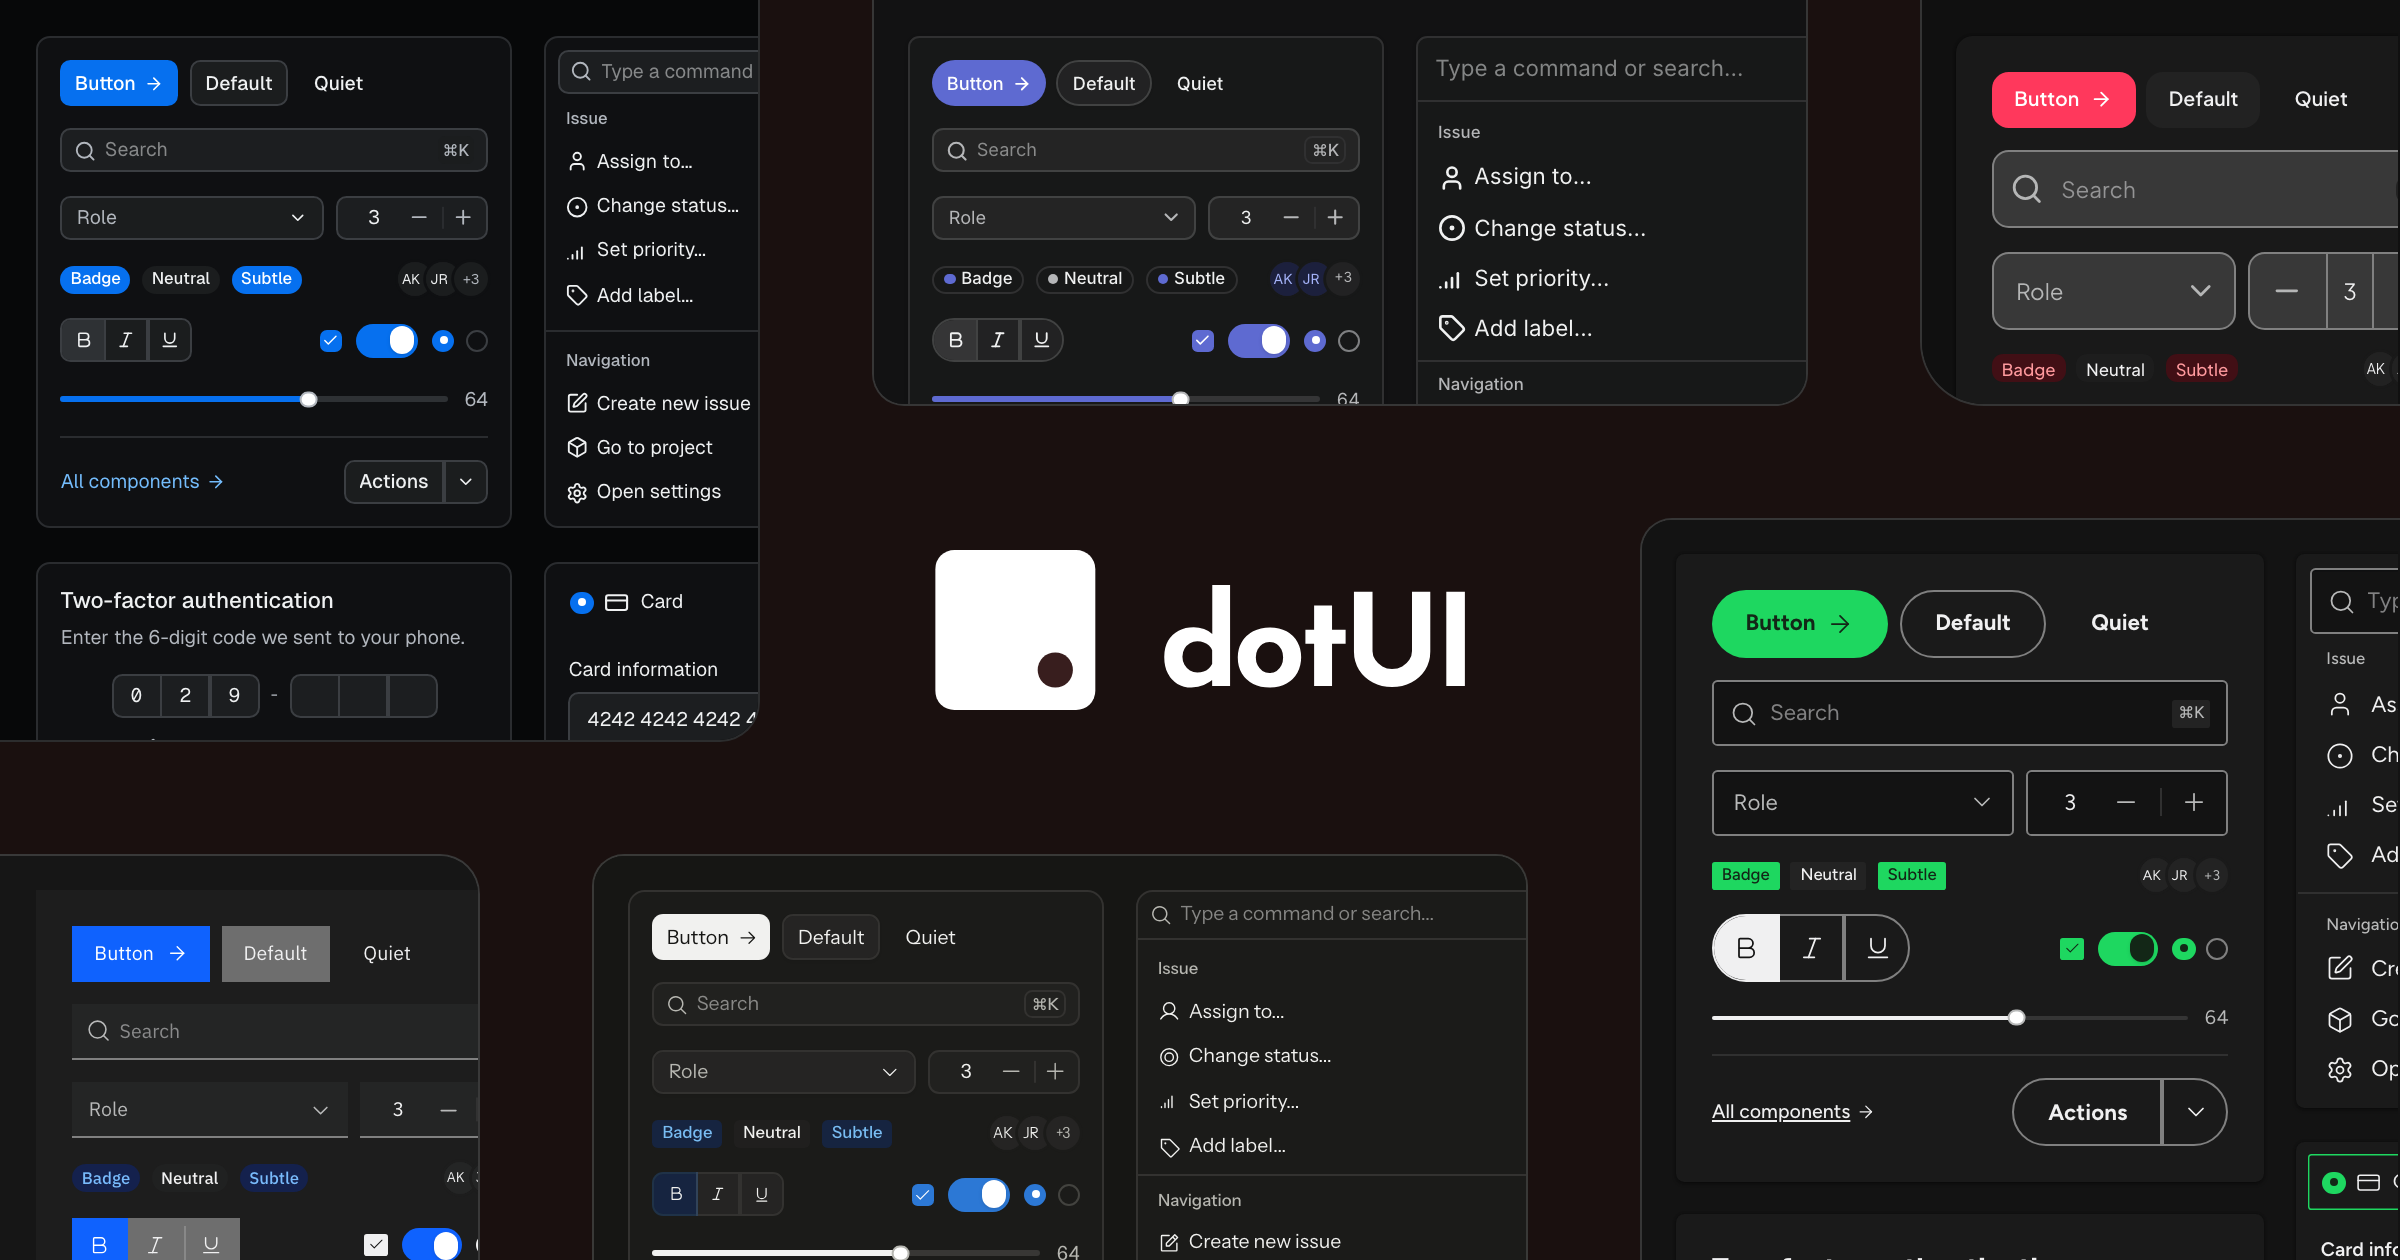
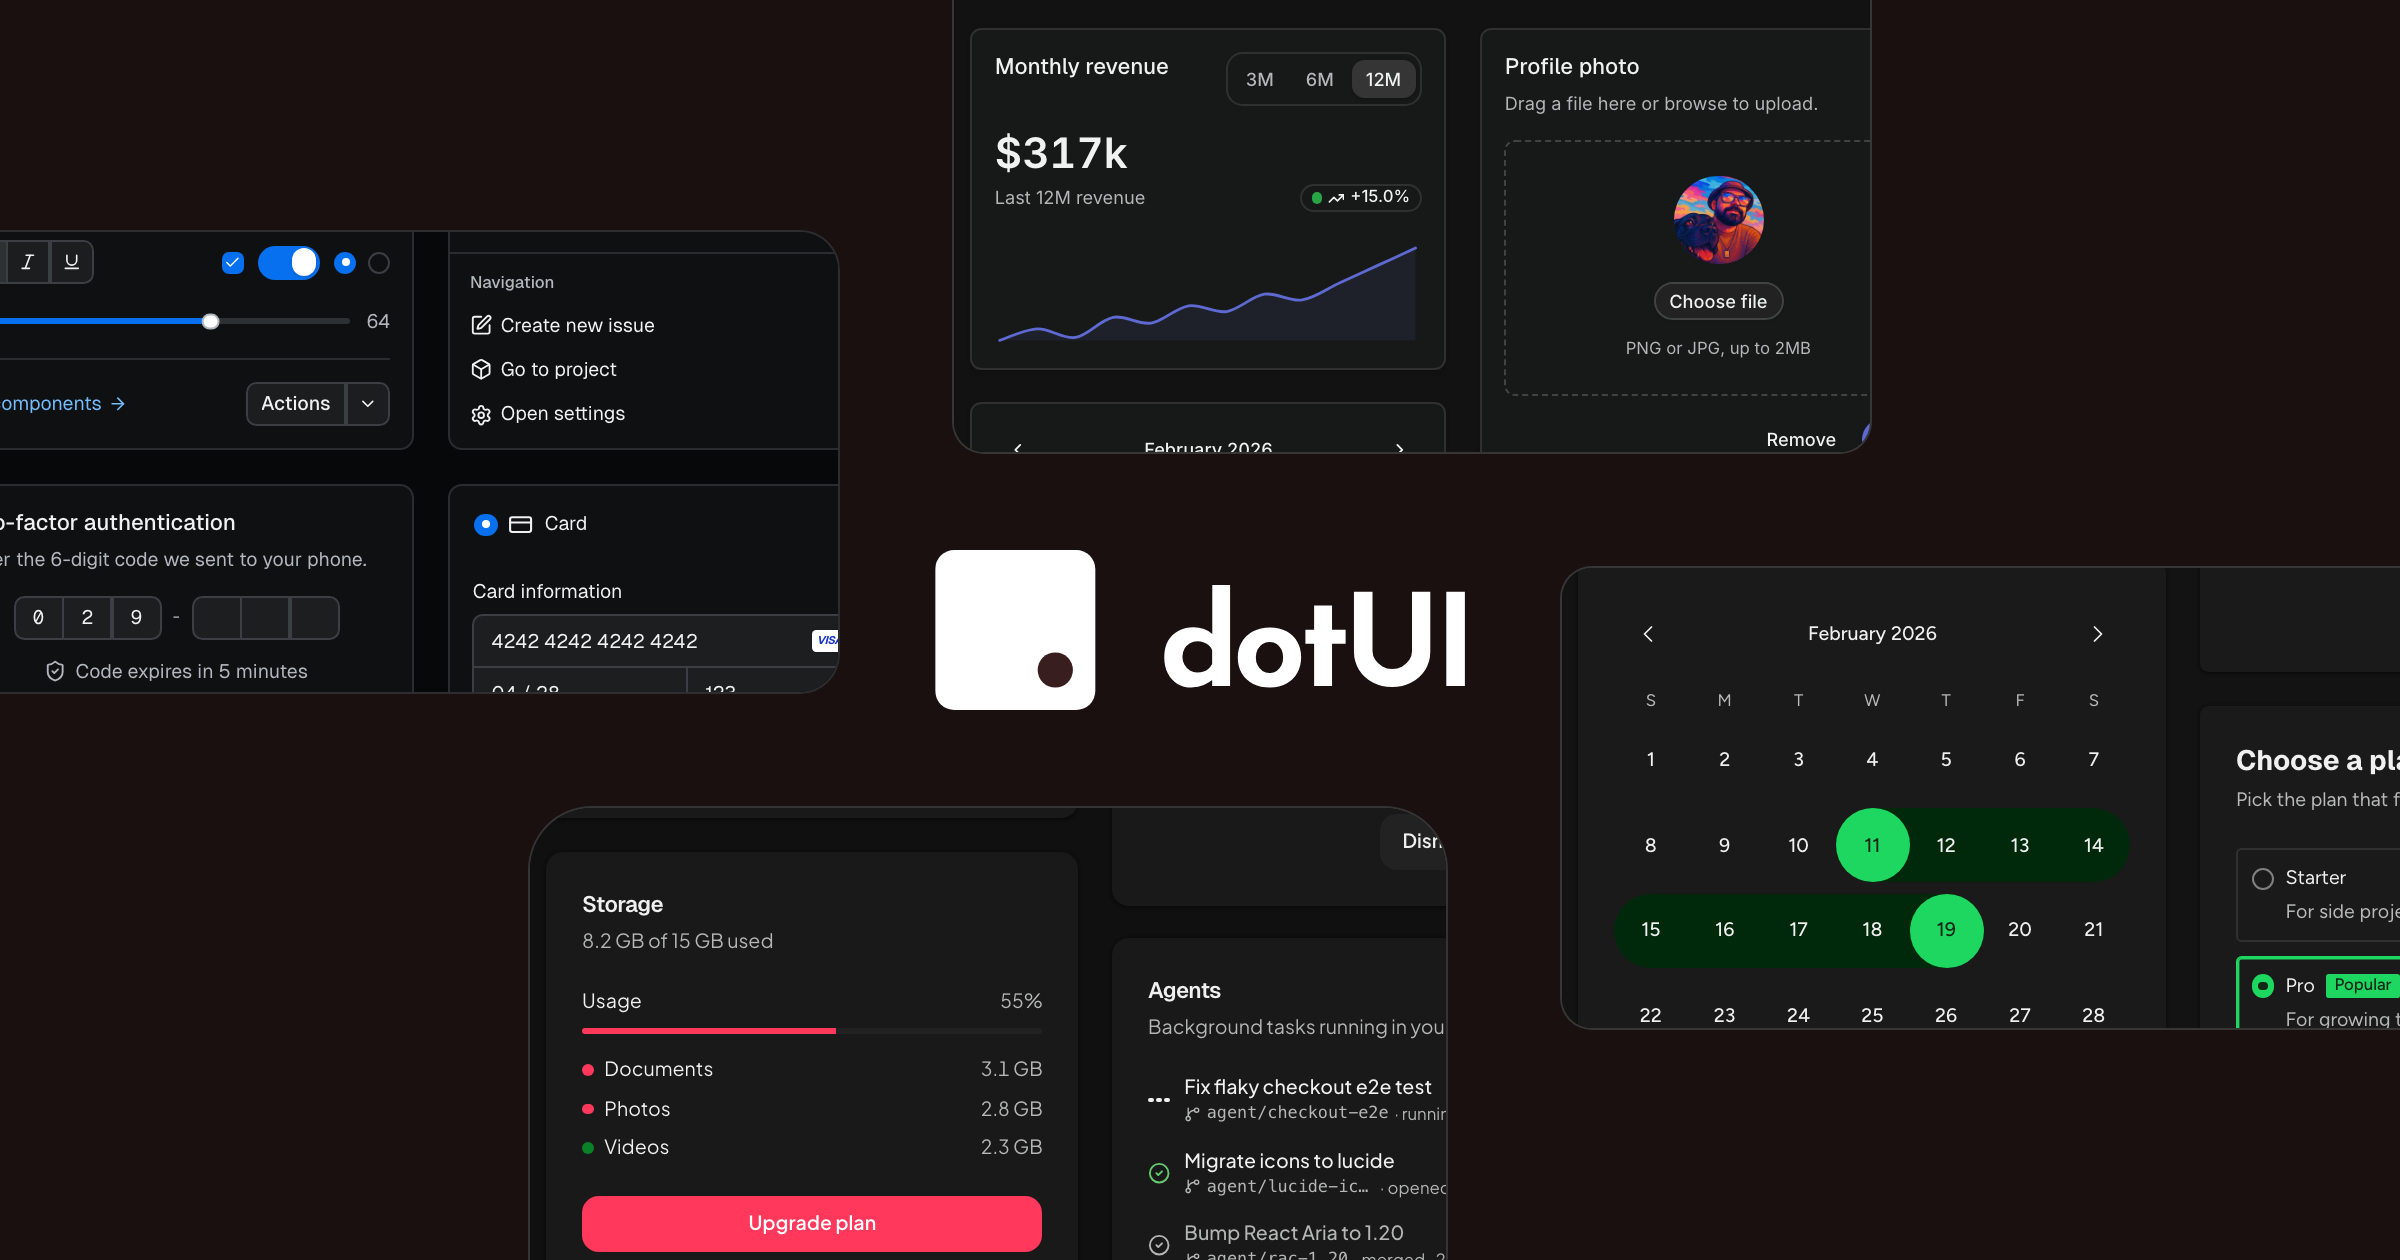
feat(brand): four equal containers with cropped cards on the cover

diff --git a/www/src/modules/marketing/cover.tsx b/www/src/modules/marketing/cover.tsx
@@ -6,80 +6,67 @@ import { DesignSystemProvider } from "@/lib/styles"
 import { CardsCanvas } from "@/components/showcase/cards-grid"
 import { resolvePreset } from "@/modules/presets"
 
-type Side = "top" | "right" | "bottom" | "left"
-
-// The clear area around the logo is 2 × HALF_W by 2 × HALF_H; containers run
-// BLEED past the canvas edge.
-const BLEED = -40
-const HALF_W = 220
-const HALF_H = 112
+// Four equal windows pinwheel around the logo's 2 × HALF_W by 2 × HALF_H clear
+// area, GUTTER apart; each reaches one edge of the 1280×640 canvas and runs
+// BLEED past it.
+const HALF_W = 180
+const HALF_H = 88
 const GUTTER = 56
-// Where the top and bottom rows split in two, from the center.
-const SPLIT = 360
+const WIDTH = 640 - HALF_W
+const HEIGHT = 320 - HALF_H
+const BLEED = 40
+const ZOOM = 0.7
 
 const fromCenter = (px: number) => `calc(50% + ${px}px)`
 
-const SLOTS: { preset: string; inset: Record<Side, number | string> }[] = [
+const SLOTS: {
+  preset: string
+  /** The window's top-left, from the canvas center. */
+  x: number
+  y: number
+  bleed: "left" | "top" | "right" | "bottom"
+  /** Where the window sits in the cards canvas, in canvas pixels. */
+  view: [number, number]
+}[] = [
   {
     preset: "origin",
-    inset: {
-      top: BLEED,
-      left: BLEED,
-      right: fromCenter(HALF_W),
-      bottom: fromCenter(GUTTER - HALF_H),
-    },
+    x: -HALF_W - WIDTH,
+    y: HALF_H - GUTTER - HEIGHT,
+    bleed: "left",
+    view: [12, 220],
   },
   {
     preset: "linear",
-    inset: {
-      top: BLEED,
-      left: fromCenter(GUTTER - HALF_W),
-      right: fromCenter(GUTTER - SPLIT),
-      bottom: fromCenter(HALF_H),
-    },
-  },
-  {
-    preset: "airbnb",
-    inset: {
-      top: BLEED,
-      right: BLEED,
-      left: fromCenter(SPLIT),
-      bottom: fromCenter(HALF_H),
-    },
+    x: GUTTER - HALF_W,
+    y: -HALF_H - HEIGHT,
+    bleed: "top",
+    view: [740, 130],
   },
   {
     preset: "spotify",
-    inset: {
-      bottom: BLEED,
-      right: BLEED,
-      left: fromCenter(HALF_W),
-      top: fromCenter(GUTTER - HALF_H),
-    },
+    x: HALF_W,
+    y: GUTTER - HALF_H,
+    bleed: "right",
+    view: [900, 470],
   },
   {
-    preset: "claude",
-    inset: {
-      bottom: BLEED,
-      left: fromCenter(GUTTER - SPLIT),
-      right: fromCenter(GUTTER - HALF_W),
-      top: fromCenter(HALF_H),
-    },
-  },
-  {
-    preset: "carbon",
-    inset: {
-      bottom: BLEED,
-      left: BLEED,
-      right: fromCenter(SPLIT),
-      top: fromCenter(HALF_H),
-    },
+    preset: "airbnb",
+    x: HALF_W - GUTTER - WIDTH,
+    y: HALF_H,
+    bleed: "bottom",
+    view: [416, 1000],
   },
 ]
 
-function PresetContainer({ preset, inset }: (typeof SLOTS)[number]) {
+function PresetContainer({
+  preset,
+  x,
+  y,
+  bleed,
+  view,
+}: (typeof SLOTS)[number]) {
   const designSystem = resolvePreset(preset)
-  // Bleeding sides pad back to the visible edge; the canvas pads itself.
-  const pad = (side: Side) => (inset[side] === BLEED ? -BLEED : 0)
+  const horizontal = bleed === "left" || bleed === "right"
   return (
     <DesignSystemProvider
       scoped
@@ -92,15 +79,16 @@ function PresetContainer({ preset, inset }: (typeof SLOTS)[number]) {
     >
       <div
         style={{
-          ...inset,
-          paddingTop: pad("top"),
-          paddingRight: pad("right"),
-          paddingBottom: pad("bottom"),
-          paddingLeft: pad("left"),
+          left: fromCenter(bleed === "left" ? x - BLEED : x),
+          top: fromCenter(bleed === "top" ? y - BLEED : y),
+          width: horizontal ? WIDTH + BLEED : WIDTH,
+          height: horizontal ? HEIGHT : HEIGHT + BLEED,
+          paddingLeft: bleed === "left" ? BLEED : 0,
+          paddingTop: bleed === "top" ? BLEED : 0,
         }}
         className="absolute overflow-hidden rounded-2xl border border-white/15 bg-bg"
       >
-        <div className="zoom-[0.7]">
+        <div style={{ zoom: ZOOM, marginLeft: -view[0], marginTop: -view[1] }}>
           <CardsCanvas />
         </div>
       </div>
